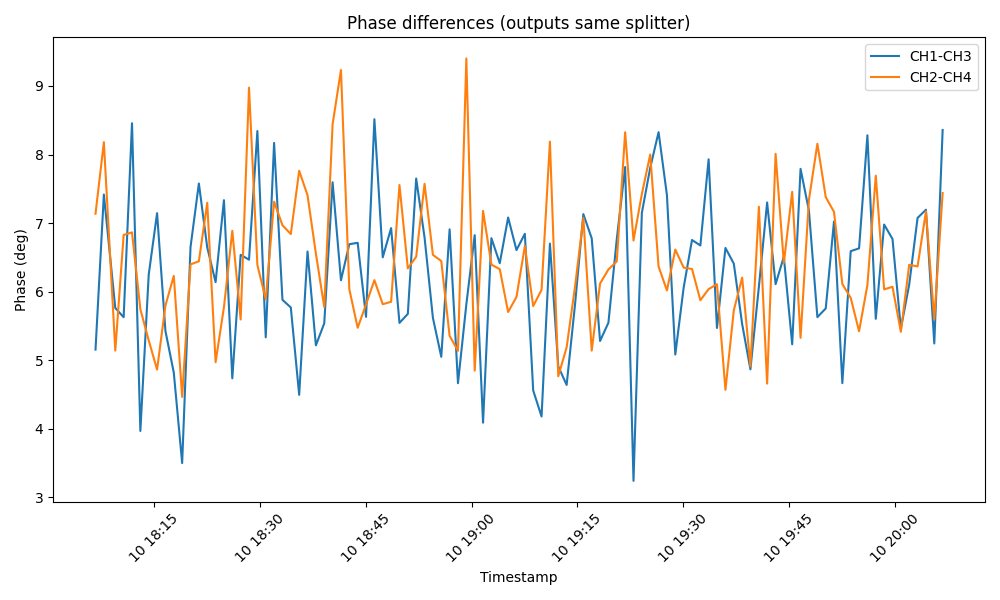
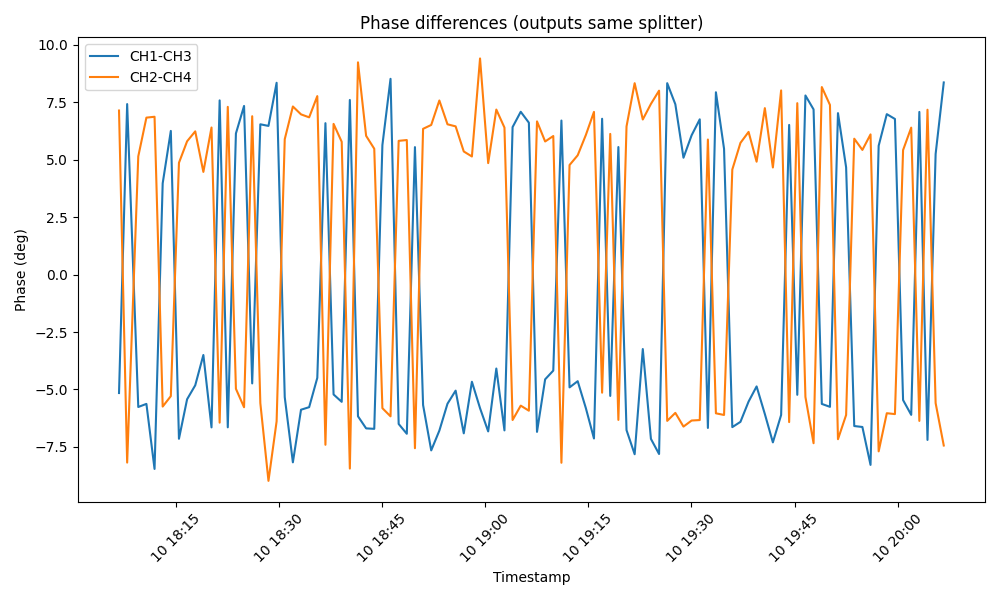
update

diff --git a/experiments/30_mulit_usrp_sync_only_lb/processing/plot-phases-different-splitter.py b/experiments/30_mulit_usrp_sync_only_lb/processing/plot-phases-different-splitter.py
@@ -16,11 +16,12 @@ df['ts'] = pd.to_datetime(df['ts'], format='%Y%m%d_%H%M%S')
 
 plt.figure(figsize=(10,6))
 
-# plt.plot(df['ts'], df['CH3'], label='CH1-CH3')
-# plt.plot(df['ts'], df['CH2']-df['CH4'], label='CH2-CH4')
+plt.plot(df['ts'], df['CH3'], label='CH1-CH3')
+plt.plot(df['ts'], df['CH2']-df['CH4'], label='CH2-CH4')
 
-plt.plot(df['ts'], abs(df['CH3']), label='CH1-CH3')
-plt.plot(df['ts'], abs(df['CH2']-df['CH4']), label='CH2-CH4')
+# abs
+# plt.plot(df['ts'], abs(df['CH3']), label='CH1-CH3')
+# plt.plot(df['ts'], abs(df['CH2']-df['CH4']), label='CH2-CH4')
          
 plt.xlabel("Timestamp")
 plt.ylabel("Phase (deg)")
